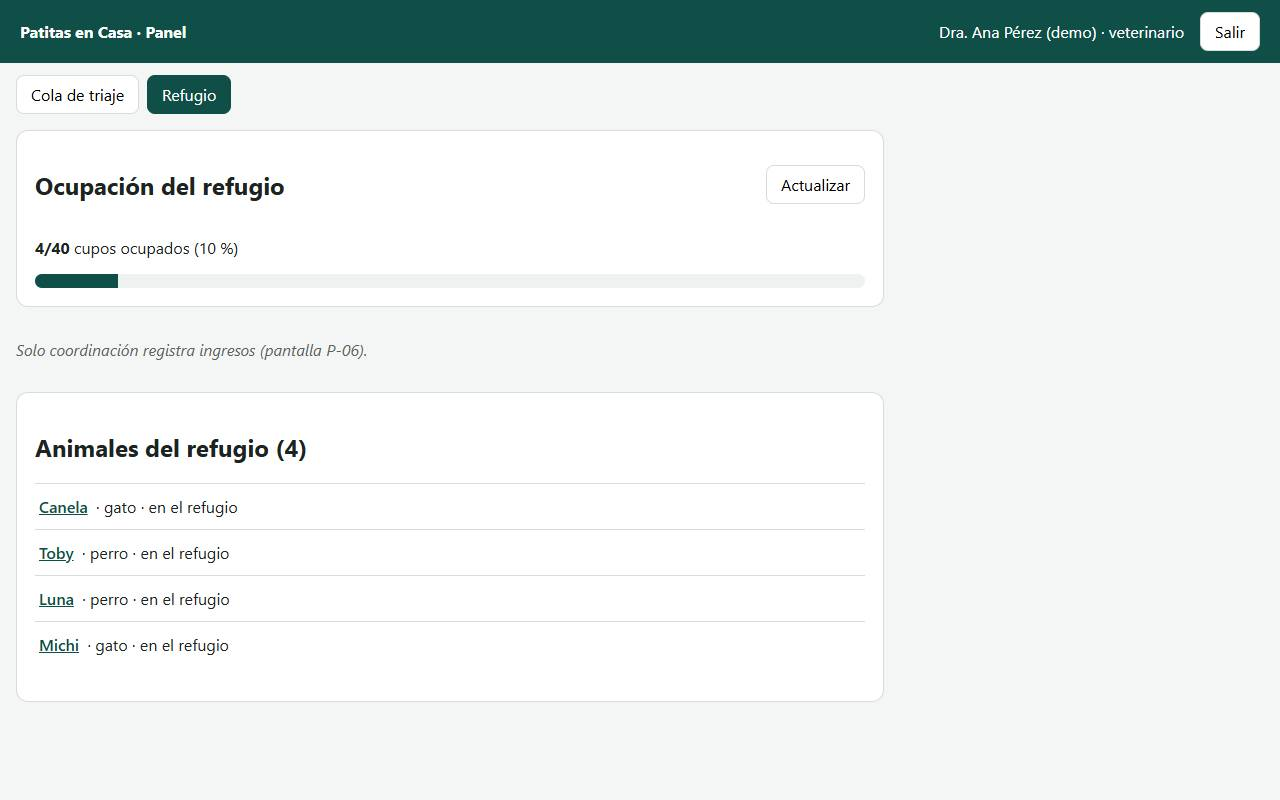
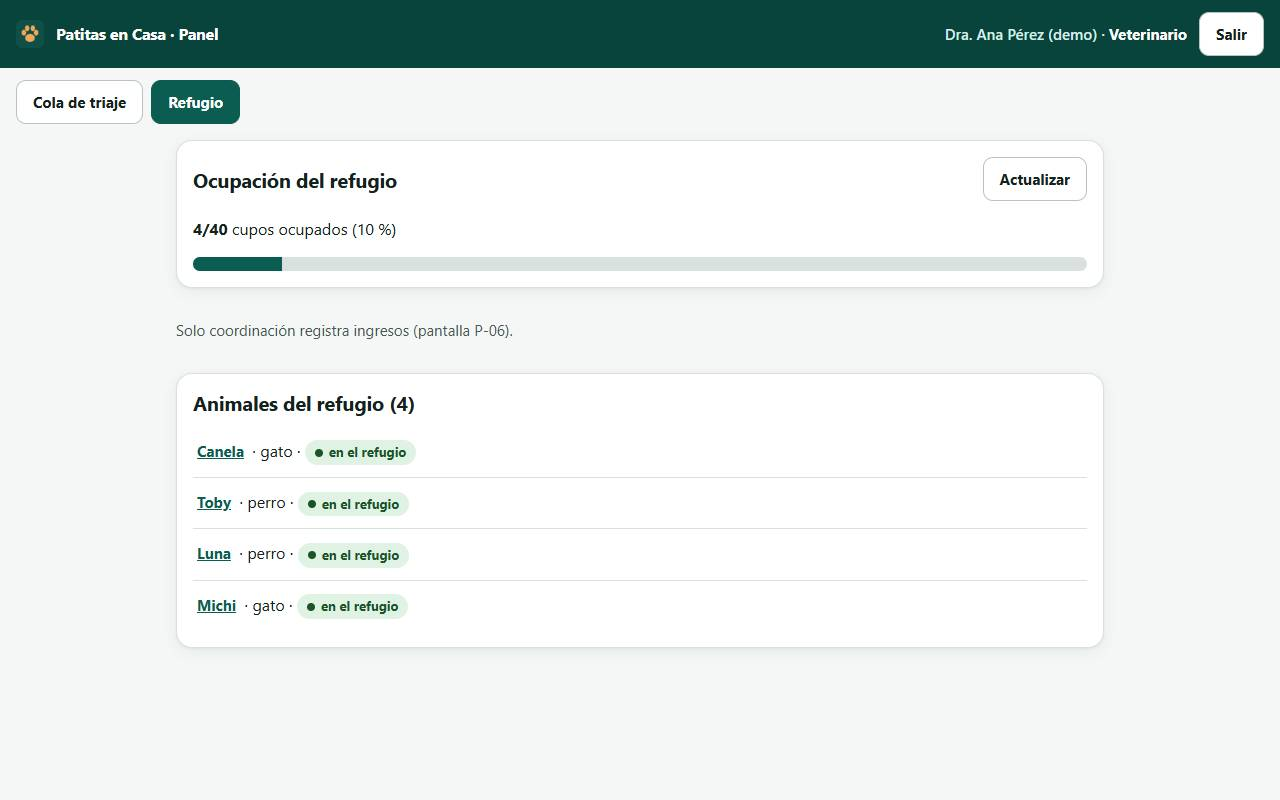
fix(panel): revisión por rol, capturas antes y después y resumen del rediseño (#182)
Claude-Session: https://claude.ai/code/session_018nXRZ93JJR7qjFXxZpw5w1

diff --git a/panel/src/Indicadores.tsx b/panel/src/Indicadores.tsx
@@ -1,6 +1,6 @@
 import { useEffect, useState } from "react";
 import { ErrorApi, pedir } from "./api";
-import { nombreIndicador, plural, textoError } from "./mensajes";
+import { nombreIndicador, nombreModelo, plural, textoError } from "./mensajes";
 
 // RF-30, RF-31, RF-32 (#102): indicadores, exportar y (administrador) la bitácora.
 type Conteo = Record<string, number>;
@@ -100,7 +100,7 @@ export default function Indicadores({ token, rol }: { token: string; rol: string
           <Barras titulo="Seguimientos de adopción" datos={datos.adopciones.seguimientos} />
           <h3>Acuerdo del veterinario con cada versión del modelo (RF-20)</h3>
           <ul>{Object.entries(datos.reportes.acuerdo_por_version_modelo).map(([v, a]) => (
-            <li key={v}>{v}: {Math.round(a.confirmadas_sin_cambio * 100)} % sin cambio en{" "}
+            <li key={v}>{nombreModelo(v)}: {Math.round(a.confirmadas_sin_cambio * 100)} % sin cambio en{" "}
               {plural(a.decisiones, "decisión", "decisiones")}</li>))}</ul>
           <h3>Recomendación por tipo de hogar (RNF-16)</h3>
           <p className="ds-suave">Qué parte del catálogo se le recomienda, en promedio, a cada grupo.

diff --git a/panel/src/diseno.test.ts b/panel/src/diseno.test.ts
@@ -62,3 +62,9 @@ describe("detalle del reporte para el veterinario (#180)", () => {
     expect(fuentes).toContain("detalle.video_segundos !== null");
   });
 });
+
+describe("sin textos técnicos a la vista (#182)", () => {
+  it("el acuerdo por versión del modelo se nombra por lo que hace", () => {
+    expect(fuentes).toContain("nombreModelo(v)");
+  });
+});

diff --git a/docs/aprende/avance.md b/docs/aprende/avance.md
@@ -410,3 +410,16 @@ de video de la fase 6 sobre la v1.0.0), desplegada en https://patitas-en-casa-pn
    usuarios).
 5. Estudia en este orden: `00-mapa.md`, las seis guías de fase (cada una con sus 5
    preguntas y respuestas), `preguntas-sustentacion.md` y `trazabilidad.md`.
+
+## Rediseño de la interfaz (PR #165 a #182)
+
+1. **Sistema de diseño único** (`app/diseno/sistema.css`, `/diseno/sistema.css`): colores de marca y de prioridad, tipografía, espaciado, botones, campos, tarjetas, tablas, insignias, estados vacíos y mensajes, con modo oscuro.
+2. **Inicio, PWA y panel** usan esa misma hoja; antes eran tres hojas con colores distintos. La PWA la guarda también el service worker (v4) para abrir sin señal.
+3. **Inicio**: portada de marca con «Reportar emergencia» primero, pasos numerados, roles en tarjetas y señales de confianza.
+4. **PWA**: formulario en tarjetas, pestañas con subrayado, botones de 44 px, código de seguimiento grande y línea de tiempo.
+5. **Panel**: barra con el rol de la sesión, pestañas, inicio de sesión con logo e insignias de prioridad (crítica, alta, media, baja) en todas las pantallas.
+6. **Por rol**: rescatista (comunas como botones y enlace a Google Maps), coordinador (formularios en rejilla y estados vacíos), administrador y adoptante (insignias), Alcaldía e indicadores (cifras clave y nombres sencillos).
+7. **Veterinario**: el detalle muestra qué pasó, dónde (con Google Maps), hace cuánto, la sugerencia explicada sin jerga y el análisis de video con su estado y la tira de 3 imágenes. `GET /cola` ahora trae `descripcion`, `ubicacion`, `creado_en` y `video_segundos` (nunca el contacto).
+8. **Calidad**: axe-core y Lighthouse siguen en verde (49 revisiones, 0 fallas, claro y oscuro, celular de 320 px); se corrigió un contraste real de la pestaña activa y una prueba intermitente de RN-14 (la hora coincidía con la latitud).
+9. **Revisión por rol**: en producción las páginas públicas cargan sin errores de consola ni desbordes; los roles con sesión se revisaron en local con las cuentas de demostración (en Render no se escriben contraseñas). Se quitó el 404 de consola de los reportes sin video y los nombres técnicos de modelo.
+10. **Capturas**: «antes» en `docs/manual/antes/` y «después» en `docs/manual/` (mismos nombres que usa `manual-usuario.md`).

diff --git a/CHANGELOG.md b/CHANGELOG.md
@@ -5,6 +5,7 @@ Formato basado en *Keep a Changelog*; versiones según SemVer.
 ## [Sin publicar]
 
 ### Agregado
+- Revisión por rol (#182): en Indicadores el acuerdo del veterinario nombra el modelo por lo que hace (no `reglas-v0+tfidf-lr-v1`); capturas del manual «antes» (`docs/manual/antes/`) y «después» (`docs/manual/`) y resumen del rediseño en `docs/aprende/avance.md`.
 - Detalle del reporte entendible de un vistazo para el veterinario (#180): `GET /cola` trae `descripcion`, `ubicacion`, `creado_en` (UTC) y `video_segundos` (nunca el contacto). El panel muestra qué pasó, dónde (con «Abrir en Google Maps»), cuánto hace que se reportó, la sugerencia explicada en lenguaje sencillo («prioridad crítica con confianza alta (90 %), según reglas de urgencia y modelo de texto») sin nombres como `tfidf-lr-v1`, las evidencias como frases y el análisis de video con su estado en insignia y la tira de 3 imágenes en un marco con pie de foto. Sin video ya no se pide el análisis (desaparece el 404 en la consola).
 - Administración y adopción con el sistema de diseño (#178): rol y estado de las cuentas como insignias (Activa / Suspendida), formularios de cuenta y de refugio en rejilla (el botón queda en su propia fila), tabla de cuentas con desplazamiento en celular, compatibilidad «93/100» y estado de las solicitudes con insignia, y animales recomendados como tarjetas.
 - Indicadores legibles para la Alcaldía, la coordinación y la administración (#176): cifras clave en tarjetas, nombres en español sencillo («Clasificado por la IA», «Crítica», «Trasladado al refugio») en lugar de claves técnicas, prioridades con insignia, plurales correctos («1 perfil») y bitácora dentro de una caja con desplazamiento.
